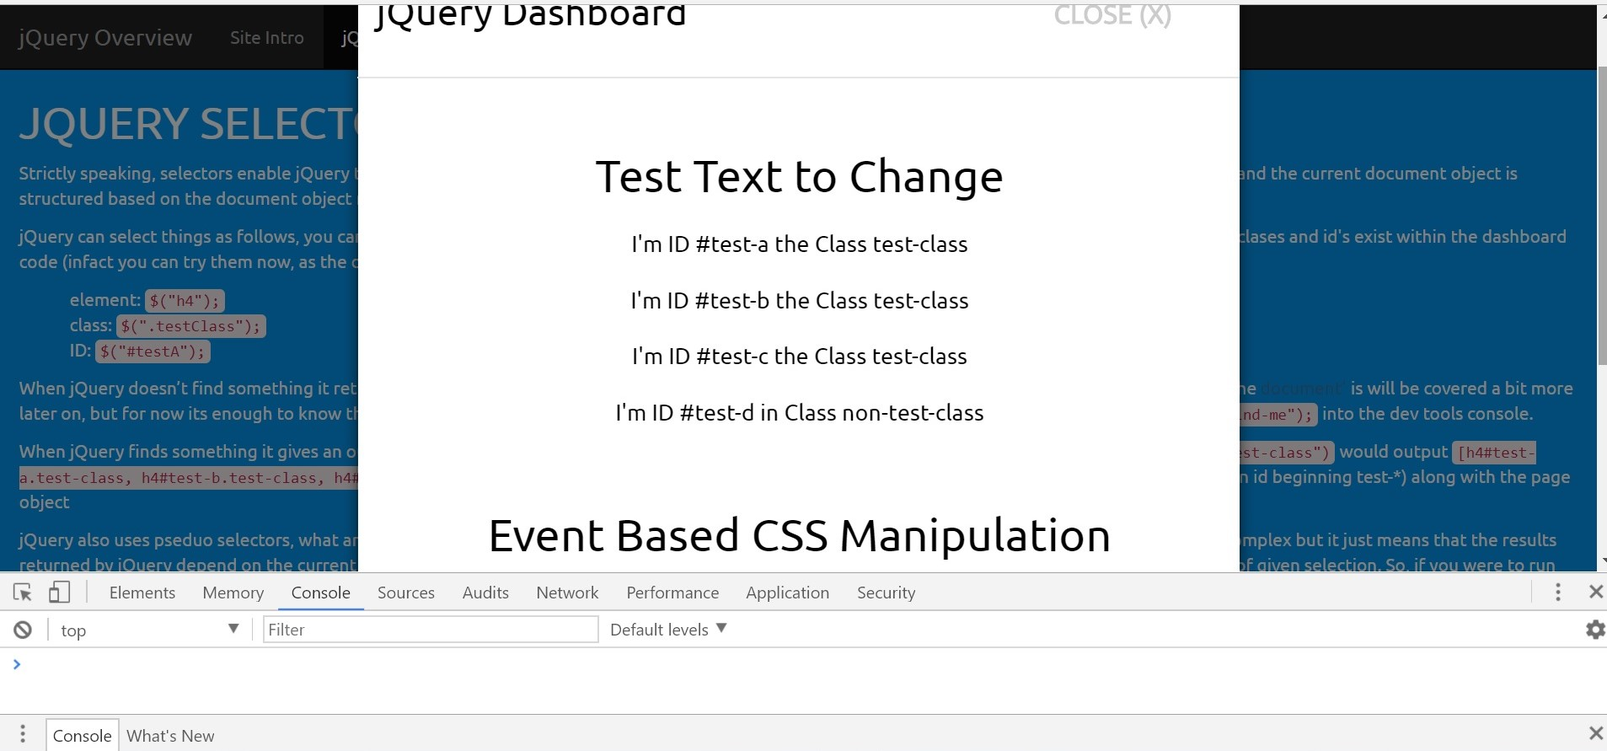
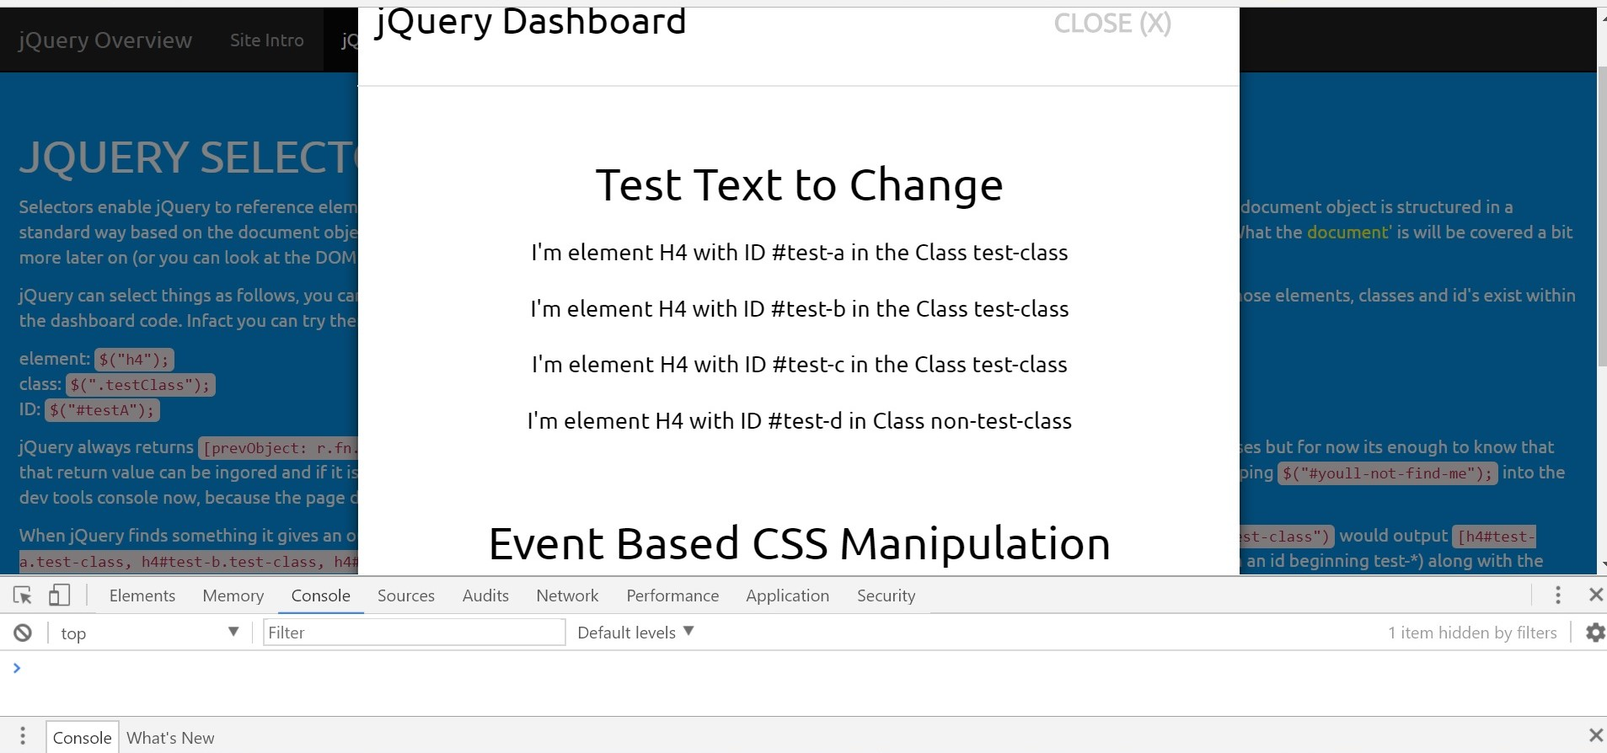
New screenshots, text checked and updated and CSS container heights realigned for responsiveness

diff --git a/index.html b/index.html
@@ -34,10 +34,10 @@
                                 <li><a href="#changing-jQuery">Changing HTML/CSS with jQuery</a></li>
                                 <li><a href="#this-jQuery">jQuery and THIS</a></li>
                             </ul>
-                         </li>
-                         <li><a class="interactive-elements" href="" data-toggle="modal" data-target="#jQuery-modal">jQuery Dashboard</a></li>
-                         <li><a href="#intro-dom">DOM Intro</a></li>
-                         <li><a class="interactive-elements" href="" data-toggle="modal" data-target="#dom-modal">Interactive DOM</a></li>
+                        </li>
+                        <li><a class="interactive-elements" href="" data-toggle="modal" data-target="#jQuery-modal">jQuery Dashboard</a></li>
+                        <li><a href="#intro-dom">DOM Intro</a></li>
+                        <li><a class="interactive-elements" href="" data-toggle="modal" data-target="#dom-modal">Interactive DOM</a></li>
                     </ul>
                 </div>
             </div>
@@ -45,40 +45,39 @@
     </nav>
     <div id="site-intro" class="container-fluid">
         <h1>Site Intro</h1>
-        <p>This is a re-styled version of the content used to give a presentation to some fellow students as part of a learning exercise for myself and for those students who had not understood aspects of jQuery. The purpose was to illustrate and explain the basic functionality of jQuery through a jQuery based dashboard and an interactive DOM diagram I created using jQuery for my own development. This overview assumes a very basic understanding or HTML, CSS and JavaScript - plus an ability to view the page elements and console log through the Dev tools of the browser being used. It is also worth noting that the use of Chrome is assumed, so although alternative browsers will have similar tools the instructions to use them may differ.The interactive aspects of the site are only intended to be used on ipads or larger devices, any smaller devices will just get the text.</p>
-        <p>The dev tools are to my knowledge only available on .</p>
-        Need to mention about DevTools on ipad etc, unusable buttons greyed out on those Also, no modals on small small mobile Devices
+        <p>This is a re-styled version of the content used to give a presentation to some fellow students as part of a learning exercise for myself and for those students who had not understood aspects of jQuery. The purpose was to illustrate and explain the basic functionality of jQuery through a jQuery based dashboard and an interactive DOM diagram I created using jQuery. This overview assumes a very basic understanding or HTML, CSS and JavaScript - plus an ability to view the page elements and console log through the Dev tools of the browser being used. It is worth noting that the use of Chrome is assumed, so although alternative browsers will have similar tools the instructions to use them may differ.The interactive aspects of the site are only intended to be used on ipads or larger devices, any smaller devices will only be able to read the text.</p>
+        <p>The dev tools are to my knowledge only available on laptops and desktops, due to this some of the testing/investigating users can do on tocuscreen devices will be slightly limited.</p>
     </div>
     <div id="intro-jQuery" class="container-fluid">
         <h1>jQUERY Intro</h1>
-        <p>This is a re-styled version of the content used to give a presentation to some fellow students as part of a learning exercise for myself and those students who had not understood aspects of jQuery. The purpose was to illustrate and explain through a jQuery based dashboard, and an interactive DOM diagram I created using jQuery, the basic functionality of jQuery. This overview assumes a very basic understanding or HTML, CSS and JavaScript - plus an ability to view the page elements and console log through the Dev tools of the browser being used. It is also worth noting that the use of Chrome is assumed, so although alternative browsers will have similar tools the instructions to use them may differ. The interactive aspects of the site are only intended to be used on ipads or larger devices, any smaller devices will just get the text.</p>
         <h4>jQuery - What is it, what does it do?</h4>
         <p>jQuery is a library which has wrapped up, shortened and simplified a whole host of JavaScript (JS) operations which would normally require numerous lines of JavaScript code to perform.</p>
         <h4>Why use it?</h4>
-        <p>It has a shorter and easier to learn syntax than JavaScript while retaining a lot of the power of vanilla JS. It is important to appreciate that other JS libraries exist and that jQuery is just currently a very popular one.</p>
+        <p>It has a shorter and easier to learn syntax than JS while retaining a lot of the power of JS, altough it is important to appreciate that other JS libraries exist, jQuery just happens to currently be a very popular one.</p>
         <h4>How do you obtain jQuery?</h4>
-        <p>You need to load the jQuery library when your page loads and this can be achieved by downloading a jQuery library to your local machine or you can use a content delivery network (CDN) which remotely hosts the library and it can be downloaded from there. Whichever method you choose you will need to provide a link to library in your page. A local copy is being used in this instance and you can check the HTML source of this page (via Dev tools) to see the link (its at the bottom of the body section)</p>
-        <p>It is important to be clear on the distinction between the jQuery library and your own jQuery file which will contain your page/site specific jQuery code, as both will need to be included (linked to) within the page.</p>
+        <p>You can download a jQuery library to your local machine or you can use a content delivery network (CDN) which remotely hosts the library and it can be downloaded from there at run time. Whichever method you choose you will need to provide a link to the library in your HML page.</p>
+        <h4>What jQuery is not</h4>
+        <p>It is important to be clear on the distinction between the jQuery library and your own jQuery file which will contain your page/site specific jQuery code. While both will need to be included (linked to) within the page, use will use functions from the jQuery library to help create your own site specific jQuery code.</p>
         <h4>How to implement jQuery in your HTML page</h4>
-        <p>Once you have your link, it is worth knowing that its best practice to put the reference to the jQuery local file or CDN at the end of the body section so that the user interface aspects of the page can download before the jQuery library.</p>
-        <p>When you are using the jQuery library, you need to ensure two things. First, your own jQuery script file is loaded after the jQuery library in the HTML file, otherwise any code in your jQuery file which tries to run before the library has downloaded will fail. Second, the document object model (DOM) has loaded before the script. This is essential if your script interacts with DOM elements, as they may not have loaded by the time the script becomes active. To achieve this you can either put the script link in the head your HTML page and use the document.ready() function at the top of your jQuery script file to encapsulate the scripts within it or put your script file link at the bottom of the body section.</p>
+        <p>Once you have your link to a jQuery library it is worth knowing that its best practice to put the reference to the jQuery local file or CDN at the end of the body section so that the user interface aspects of the page can download before the jQuery library.</p>
+        <p>Additionally, when you are using a jQuery library, you need to ensure two things. First, your own jQuery script file is loaded after the jQuery library in the HTML file, otherwise any code in your jQuery file which tries to run before the library has downloaded will fail. Second, the document object model (DOM) has loaded before the script. This is essential if your script interacts with DOM elements, as they may not have loaded by the time the script becomes active. To achieve this you can either put the script link in the head your HTML page and use the document.ready() function at the top of your jQuery script file to encapsulate the scripts within it, or put your script file link at the bottom of the body section.</p>
     </div>
     <div id="selecting-jQuery" class="container-fluid">
         <h1>JQUERY SELECTORS</h1>
-        <p>Selectors enable jQuery to reference elements within the current browsers document object (an object in this sense is a way of organising data), and the document object is structured in a standard way based on the document object model (DOM). In essence the DOM the browsers view/interpretation of the structure of the HTML page.</p>
-        <p>jQuery can select things as follows, you can try these and others out on the jQuery dashboard section via the dev tools console because those elements, classes and id's exist within the dashboard code (infact you can try them now, as the dashboard code is contained within this pages code!):</p>
+        <p>Selectors enable jQuery to reference elements within the current browsers document object (an object in this sense is a way of organising data), and the document object is structured in a standard way based on the document object model (DOM). In essence the is DOM the browsers view/interpretation of the structure of the HTML page. What the <a href="https://www.w3schools.com/jsref/dom_obj_document.asp">document'</a> is will be covered a bit more later on (or you can look at the DOM intro now).</p>
+        <p>jQuery can select things as follows, you can try these and others out on the jQuery dashboard (a menu option above) via the dev tools console because those elements, classes and id's exist within the dashboard code. Infact you can try them without launching the dashboard becuase the dashboard code is contained within this pages code HTML.</p>
         <ul>
             <li>element: <code> $("h4");</code></li>
             <li>class: <code> $(".testClass"); </code></li>
             <li>ID: <code> $("#testA");</code></li>
         </ul>
-        <p>When jQuery doesn’t find something it returns <code>[prevObject: r.fn.init(1)]</code>, which is an object which contains information about the document. What the <a href="https://www.w3schools.com/jsref/dom_obj_document.asp">document'</a> is will be covered a bit more later on, but for now its enough to know that that return value means jQuery is saying "I can't find it". You can try this out now by typing <code>$("youll-not-find-me");</code> into the dev tools console.</p>
-        <p>When jQuery finds something it gives an output, for example (and again, like all examples given here, it can be tried out on this page via dev tools), <code>$("test-class")</code> would output <code>[h4#test-a.test-class, h4#test-b.test-class, h4#test-c.test-class, prevObject: r.fn.init(1)]</code> which is shows the 4 elements (which are h4 elements with an id beginning test-*) along with the page object</p>
-        <p>jQuery also uses pseduo selectors, what are pseduo selectors? A pseduo selector is a selector who’s return value is context specific. This sounds a little complex but it just means that the results returned by jQuery depend on the current state of the page. For example jQuery has first and last pseduo selectors and these just select the first or last of given selection. So, if you were to run <code>$(".test-class:first()")</code> on the current page, you get <code>h4#test-a.test-class</code> returned (Im that example I have, and will from now on, omit the returned document object), which is the first of the class 'test-class' selection group.</p>
-        <p> This is an experiment to try out, all you need to do is to open dev tools and go to the console, then launch the jQuery Dashboard modal so you can see what you will be searching for and the effects of any changes. Please be aware that you can launch and dismiss (to get back to these instructions) and the modal will relaunch in the state it was before closure. Also before you type anything in, be assured you can't break anything, if anything goes wrong you can simply refresh your page to refresh the modal.Now position the modal so that the "Test Text to Change" and the lines of text below it are visible on your screen at the same time as the elements view, your screen should look something like:</p>
+        <p>jQuery always returns <code>[prevObject: r.fn.init(1)]</code> within its selection results. <code>[prevObject: r.fn.init(1)]</code> is an object jQuery uses for internal purposes but for now its enough to know that that return value can be ingored and if it is the only element jQuery returns, consider it jQuery is just saying "I can't find it". You can try this out now by typing <code>$("#youll-not-find-me");</code> into the dev tools console now, because the page does not have an element id of that name within it.</p>
+        <p>When jQuery finds something it gives an output, for example (and again, like all examples given here, it can be tried out on this page via dev tools), <code>$("test-class")</code> would output <code>[h4#test-a.test-class, h4#test-b.test-class, h4#test-c.test-class, prevObject: r.fn.init(1)]</code> which is showing the 4 elements (which are h4 elements with an id beginning test-*) along with the extra object jQuery puts into the return results</p>
+        <p>jQuery also uses pseduo selectors, what are pseduo selectors? A pseduo selector is a selector who’s return value is context specific. This sounds a little complex but it just means that the results returned by jQuery depend on the current state of the page. For example jQuery has first and last pseduo selectors and these just select the first or last of given selection. So, if you were to run <code>$(".test-class:first()")</code> on the current page, because an element with that id exists in the page HTML, you get <code>h4#test-a.test-class</code> returned (In that example I have, and will from now on, omit the additonal returned jQuery object), which is the first of the class 'test-class' selection group.</p>
+        <p> This is an experiment to try out, all you need to do is to open dev tools and go to the console, then launch the jQuery Dashboard modal so you can see what you will be searching for and the effects of any changes. Please be aware that you can launch and dismiss (to get back to these instructions) and the modal will relaunch in the state it was before closure. Also before you type anything in, be assured you can't break anything, if anything goes wrong you can simply refresh your page to refresh the modal.Once you have launched the modal position it so that the "Test Text to Change" and the lines of text below it are visible on your screen at the same time as the elements view, your screen should look something like:</p>
         <figure class="row text-center">
             <img class="screen-setup-img" src="img/console.jpg" alt="image of required screen layout">
-            <figcaption>Fig1. - Screen layout for Dev Tools Console and jQuery Dashboard</figcaption>
+            <figcaption>Fig.1 - Screen layout for Dev Tools Console and jQuery Dashboard</figcaption>
         </figure>
         <p>Now run the commands in the following order: </p>
         <ul>
@@ -92,12 +91,12 @@
     </div>
     <div id="changing-jQuery" class="container-fluid">
         <h1>Changing HTML/CSS with jQuery</h1>
-        <p>As shown in the previous section, jQuery can be used to change as well as select HTML/CSS, lets check this out, launch the jQuery dashboard and set up the layout as guided in the previous section, with the only difference being you need to have elements selected in dev tools rather than console. The console may already be showing at the bottom of the elements pane (although you may need to expand it up), if not press escape and it will appear and adjust it as necessary. In this instance we want to see the changes to the HTML, so we need to get the HTML which will change into view. So in the elements pane drill down into the HTML, by selecting these elements and expanding them, in this order: </p>
+        <p>As shown in the previous section, jQuery can be used to change as well as select HTML/CSS, lets check this out. Launch the jQuery dashboard and set up the layout as guided in the previous section, with the only difference being you need to have elements selected in dev tools rather than console. The console may already be showing at the bottom of the elements pane (although you may need to expand it up), if not press escape and it will appear and adjust it as necessary. In this instance we want to see the changes to the HTML, so we need to get the HTML which will change into view. So in the elements pane drill down into the applicable HTML by selecting the following elements and expanding them, in this order: </p>
         <p><code>body, div id=jQuery-modal, div class="modal-dialog", div="modal-content", div="modal-body", div="display-dashboard-container", div id="display-dashboard"</code></p>
-        <p>Then adjust your page so the h4 elements with an id of test-* are in view, ideally you page layout will look something like:</p>
+        <p>Then launch the jQuery Dashboard and adjust your page so the h4 elements with an id of test-* are in view, ideally you page layout will look something like:</p>
         <figure class="row text-center">
             <img class="screen-setup-img" src="img/elements-console.jpg" alt="image of required screen layout">
-            <figcaption>Fig1. - Screen layout for Dev Tools Console, Elements pane and jQuery Dashboard</figcaption>
+            <figcaption>Fig.2 - Screen layout for Dev Tools Console, Elements pane and jQuery Dashboard</figcaption>
         </figure>
         <p>Now run the following commands:
             <p>
@@ -111,7 +110,7 @@
     <div id="events-jQuery" class="container-fluid">
         <h1>Changing HTML/CSS with jQuery Events</h1>
         <h4>EVENTS IN JQUERY</h4>
-        <P>In essence events are user based actions, it could be a mouse click, a key being pressed or released, or something being hovered over by the cursor. There are a variety of different events and list of them can be found <a href="https://www.w3schools.com/js/js_events.asp">online</a>. When set up, event handlers listen out for these events and will trigger off some code when required, and this will normally result in something observable happening on the screen.</P>
+        <P>In essence events are user based actions, it could be a mouse click, a key being pressed or released, or something being hovered over by the cursor. There are a variety of different events and lists of them can be found <a href="https://www.w3schools.com/js/js_events.asp">online</a>. When set up, event handlers listen out for these events and will trigger off some code when required and this will normally result in something observable happening on the screen.</P>
         <p>This overview will use the click event and the mouseover event. From this point on you will only need the elements section of Google Dev Tools, so you can close the console section of the elements window if it is taking up space. To observe the changes you will need to drill down to the HTML div with an ID of display-dashboard, via the rote shown in the previous section.</p>
         <p>Launch the jQuery Dashboard and press the red and then the blue button under 'add class', you will see in the elements panel that both a red and a blue class are added to elements of the class, test-class. But you will also notice, that subsequent presses have no effect and the text stays blue, this is because the element has two colour classes applied and so normal CSS precedence will apply and in this case blue is the final colour/rule in the cascade, so it is the one which is applied. This issue can be avoided by adding one class while removing the other, using the 'class add/remove' buttons on the dashboard illustrate this, and looking at the HTML changes clearly shows this is happening. If you look in the jQuery file for this overview (js/myExample.js) you will it shown how 'event chaining' can be used to execute commands in a back to back sequence. The button click associated with the id addRemClass is written in a line by line way: </p>
         <ul>
@@ -124,7 +123,7 @@
             </li>
             <li><code>});</code></li>
         </ul>
-        <p>The code for addRemClassBlue is written using method chaining, which enables a shorter syntax and is commonly used in jQuery:</p>
+        <p>The code for addRemClassBlue is written using method chaining which enables a shorter syntax and is commonly used in jQuery, it is simply saying add class blue then remove class red:</p>
         <ul>
             <li><code>$("#addRemClassBlue").click(function(){</code></li>
             <li>
@@ -134,13 +133,13 @@
             </li>
             <li><code>});</code><li>
         </ul>
-                <h4>Changing HTML/CSS with jQuery Effects</h4>
-                <p>jQuery effects are a simple was of combining different CSS animation effects via one command, there are various, but this overview will only be using fade in/out and slide in/out via event handlers. To watch how the effects work, go to the dashboard in the elements section and drill down to the dashboard HTML (how to do this is explained in preceding sections). Then press the top slide toggle button and watch the HTML change, press it again to see the effect in reverse and then try the fade toggle button.</p>
-                <p> From watching the HML you will have seen something happening very quickly! If you now use the slow version of the toggle buttons the CSS manipulation can be seen more clearly. Slide out hides the overflow of the container, then reduces the containers height until it eventually the CSS display property is changed to “None” (slide in simply reverses this). Fade out reduces the opacity of the contents of the container until it can hardly be seen and changes the CSS display property to “None” (fade in reverses this). </p>
+        <h4>Changing HTML/CSS with jQuery Effects</h4>
+        <p>jQuery effects are a simple was of combining different CSS animation effects via one command, there are various, but this overview will only be using fade in/out and slide in/out via mouseover and click event handlers. To watch how the effects work, go to the dashboard in the elements section and drill down to the dashboard HTML (how to do this is explained in preceding sections). Then press the top slide toggle button and watch the HTML change, press it again to see the effect in reverse and then try the fade toggle button.</p>
+        <p> From watching the HML you will have seen something happening very quickly! If you now use the slow version of the toggle buttons the CSS manipulation can be seen more clearly. Slide out hides the overflow of the container, then reduces the containers height until it eventually the CSS display property is changed to “None” (slide in simply reverses this). Fade out reduces the opacity of the contents of the container until it can hardly be seen and changes the CSS display property to “None” (fade in reverses this). </p>
     </div>
     <div id="this-jQuery" class="container-fluid">
         <h1>jQuery and 'THIS'</h1>
-        <p>Sometimes you only want to select or target the active screen element, for instance the element being clicked or hovered over. To do this you need to use the keyword THIS in the event handler to specify the event handler code is to only apply to the active element, and by active element it is meant "the one through which action is invoked". If you bring up the dashboard and hover over the 3 grouped buttons, you will notice that they change to be black with red writing, this is because a group event for that button class has been set up, so if any of the buttons are hovered over, they all change, with the code shown below.</p>
+        <p>Sometimes you only want to select or target the active screen element, for instance the element being clicked or hovered over. To do this you need to use the keyword THIS in the event handler to specify the event handler code is to only apply to the active element, and by active element it is meant "the one through which action is invoked". If you bring up the dashboard and hover over one of the 4 buttons in the 'This' Button Group (touchscreen users will have to click one of the buttons), you will notice that they change to be black with red writing, this is because a group event for that button class has been set up, so if any of the buttons are hovered over, they all change, with the code shown below.</p>
         <ul>
             <li><code>  $(".buttonClass").mouseover(function(){</code></li>
             <li>
@@ -163,7 +162,7 @@
             </li>
             <li><code>});</code></li>
         </ul>
-        <p> This isn't the specific change to the active element that was mentioned above, but if you now click on one of those buttons, you will see that each one independently cycles through odd/even, again you can see this change in the HTML.</p>
+        <p> But this isn't the specific change to the active element that was mentioned above, so if you now click on one of those buttons, if you haven't already noticed you will see that each one independently cycles through odd/even, again you can see this change in the HTML.</p>
         <ul>
             <li><code>$(".buttonClass").click(function() {</code></li>
             <li>
@@ -191,10 +190,10 @@
                         <div class="display-dashboard-container">
                             <h1>Test Text to Change</h1>
                             <div id="display-dashboard">
-                                <h4 id="test-a" class="test-class"> I'm ID #test-a the Class test-class</h4>
-                                <h4 id="test-b" class="test-class"> I'm ID #test-b the Class test-class</h4>
-                                <h4 id="test-c" class="test-class"> I'm ID #test-c the Class test-class</h4>
-                                <h4 id="test-d" class="non-test-class"> I'm ID #test-d in Class non-test-class</h4>
+                                <h4 id="test-a" class="test-class"> I'm element H4 with ID #test-a in the Class test-class</h4>
+                                <h4 id="test-b" class="test-class"> I'm element H4 with ID #test-b in the Class test-class</h4>
+                                <h4 id="test-c" class="test-class"> I'm element H4 with ID #test-c in the Class test-class</h4>
+                                <h4 id="test-d" class="non-test-class"> I'm element H4 with ID #test-d in Class non-test-class</h4>
                             </div>
                         </div>
                         <div class="events-dashboard-container">
@@ -216,7 +215,7 @@
                                 <button id="fadeToggleButtonSS" class="small-button">Fade</button>
                             </div>
                             <div class="event-panel">
-                                <p>Buttons with a class (on hover) and active element (on click) changes:</p>
+                                <p>'This' Button Group:</p>
                                 <button class="buttonClass small-button">Button 1</button>
                                 <button class="buttonClass small-button">Button 2</button>
                                 <button class="buttonClass small-button">Button 3</button>
@@ -231,20 +230,22 @@
     <div id="intro-dom" class="container-fluid">
         <h1>Introduction to the DOM</h1>
         <p>The Document Object Model (DOM) is a hierarchical view of the page from the perspective of the browser. Each element of the DOM is an object which will have properties (values which are changeable) and methods (perform actions to change or obtain properties).</p>
-        <p>At the top is the window object which represents the browser window, under that is the document object which represents the current web page/document, HTML object represents all the HTML elements within the document. Following HTML are the HEAD and BODY, then the elements the user has put to build their webpage as they wish. Its worth being aware that when working with the DOM you will normally only target elements in the BODY section. Within the BODY tag the hierarchy is set by how the different elements of code enclose each other. If you indent your code correctly you'll be able to the different enclosures (or DOM levels) from the indentation. For example, below you can see the two enclosure levels, as the the level_2 elements are enclosed by the level_1 elements they are a level down in the down the DOM hierarchy relative to the level_1 elements.</p>
+        <p>At the top is the window object which represents the browser window, under that is the document object which represents the current web page/document, then there is the HTML object represents all the HTML elements within the document. Following HTML are the HEAD and BODY, then the elements the user has put to build their webpage as they wish. Its worth being aware that when working with the DOM you will normally only target elements in the BODY section. Within the BODY tag the hierarchy is set by how the different elements of code enclose each other. If you indent your code correctly you'll be able to the different enclosures (or DOM levels) from the indentation. For example, below you can see the two enclosure levels, as the the level_2 elements are enclosed by the level_1 elements they are a level down in the down the DOM hierarchy relative to the level_1 elements.</p>
         <ul>
             <li><code>&lt;div class="level_1"&gt;</code></li>
             <li>
                 <ul>
-                    <li><code>&lt;div class="level_2"&gt;</code></li>
+                    <li><code>&lt;div class="level_2"div&gt;&lt;\div&gt;</code></li>
                 </ul>
             </li>
+            <li><code>&lt;\div&gt;</code></li>
             <li><code>&lt;div class="level_1"&gt;</code></li>
             <li>
                 <ul>
-                    <li><code>&lt;div class="level_2"&gt;</code></li>
+                    <li><code>&lt;div class="level_2"div&gt;&lt;\div&gt;</code></li>
                 </ul>
             <li>
+            <li><code>&lt;\div&gt;</code></li>
         </ul>
         <p>The DOMs different elements have a family based relationship, in that they each have a parent and can have children or siblings and this can clearly been seen on the interactive DOM hierarchy (invoke via main menu). With jQuery you don’t have to directly reference an element via class or ID to select it, you can traverse the DOM up/down/left and right using:</p>
         <ul>
@@ -253,10 +254,8 @@
             <li><code>.next()</code> - goes left to right on siblings</li>
             <li><code>.previous()</code> - goes right to left on siblings</li>
         </ul>
-        <p>What is a viewed as a parent, child or sibling is context specific depending on the element selected, and this maybe difficult to conceptualise which is why the interactive DOM Hierarchy can be useful.</p>
+        <p>What is a viewed as a parent, child or sibling is context specific depending on the element selected, and this maybe difficult to conceptualise which is where the interactive DOM Hierarchy can be useful to clearly show these relationships.</p>
     </div>
-    
-
     <!-- DOM Modal -->
     <div id="dom-modal" class="modal fade" role="dialog">
         <div class="modal-dialog">
@@ -267,7 +266,7 @@
                     <h2 class="modal-title .text-center">Introduction to the DOM</h2>
                 </div>
                 <div class="modal-body">
-                    <p> What is a viewed as a parent, child or sibling when navigating the DOM is context specific depending on the element selected.To illustrate this an interactive diagram of a fictitious webpage has been created using jQuery! Click on any element (with the exception of Window, as it has no parent) and the diagram will show the active elements, parent, sibling and direct children.
+                    <p> What is a viewed as a parent, child or sibling when navigating the DOM is context specific depending on the element selected.To illustrate this an interactive diagram of a fictitious webpage has been created using jQuery. Click on any element (with the exception of Window, as it has no parent) and the diagram will show the active elements, parent, sibling and direct children.
                     </p>
                     <div class="dom-dashboard hideDOMNav">
                         <div class="dom-container">

diff --git a/css/myCSS.css b/css/myCSS.css
@@ -367,7 +367,7 @@
 
     #intro-jQuery {
         padding-top: 50px;
-        height: 1800px;
+        height: 1400px;
         color: #fff;
         background: #3061b2 url('../img/jQuery_icon2.png') no-repeat center center fixed;
     }
@@ -375,7 +375,7 @@
 
     #selecting-jQuery {
         padding-top: 50px;
-        height: 2200px;
+        height: 2400px;
         color: #fff;
         background: #0494ed url('../img/jQuery_icon2.png') no-repeat center center fixed;
     }
@@ -406,7 +406,7 @@
 
     #intro-dom {
         padding-top: 50px;
-        height: 1250px;
+        height: 1300px;
         color: #fff;
         background: #0494ed url('../img/jQuery_icon2.png') no-repeat center center fixed;
     }
@@ -436,7 +436,7 @@
 
     #intro-jQuery {
         padding-top: 50px;
-        height: 1200px;
+        height: 1050px;
         color: #fff;
         background: #3061b2 url('../img/jQuery_icon2.png') no-repeat center center fixed;
     }
@@ -444,7 +444,7 @@
 
     #selecting-jQuery {
         padding-top: 50px;
-        height: 1450px;
+        height: 1500px;
         color: #fff;
         background: #0494ed url('../img/jQuery_icon2.png') no-repeat center center fixed;
     }
@@ -497,7 +497,7 @@
 
     #intro-jQuery {
         padding-top: 50px;
-        height: 1100px;
+        height: 900px;
         color: #fff;
         background: #3061b2 url('../img/jQuery_icon2.png') no-repeat center center fixed;
     }
@@ -505,7 +505,7 @@
 
     #selecting-jQuery {
         padding-top: 50px;
-        height: 1200px;
+        height: 1250px;
         color: #fff;
         background: #0494ed url('../img/jQuery_icon2.png') no-repeat center center fixed;
     }
@@ -554,7 +554,7 @@
 
     #intro-jQuery {
         padding-top: 50px;
-        height: 950px;
+        height: 850px;
         color: #fff;
         background: #3061b2 url('../img/jQuery_icon2.png') no-repeat center center fixed;
     }
@@ -562,7 +562,7 @@
 
     #selecting-jQuery {
         padding-top: 50px;
-        height: 1400px;
+        height: 1450px;
         color: #fff;
         background: #0494ed url('../img/jQuery_icon2.png') no-repeat center center fixed;
     }
@@ -617,7 +617,7 @@
 
     #intro-jQuery {
         padding-top: 50px;
-        height: 900px;
+        height: 800px;
         color: #fff;
         background: #3061b2 url('../img/jQuery_icon2.png') no-repeat center center fixed;
     }
@@ -625,7 +625,7 @@
 
     #selecting-jQuery {
         padding-top: 50px;
-        height: 1350px;
+        height: 1400px;
         color: #fff;
         background: #0494ed url('../img/jQuery_icon2.png') no-repeat center center fixed;
     }
@@ -640,7 +640,7 @@
 
     #events-jQuery {
         padding-top: 50px;
-        height: 950px;
+        height: 1000px;
         color: #fff;
         background: #0494ed url('../img/jQuery_icon2.png') no-repeat center center fixed;
     }
@@ -680,7 +680,7 @@
 
     #intro-jQuery {
         padding-top: 50px;
-        height: 850px;
+        height: 800px;
         color: #fff;
         background: #3061b2 url('../img/jQuery_icon2.png') no-repeat center center fixed;
     }
@@ -688,7 +688,7 @@
 
     #selecting-jQuery {
         padding-top: 50px;
-        height: 1250px;
+        height: 1300px;
         color: #fff;
         background: #0494ed url('../img/jQuery_icon2.png') no-repeat center center fixed;
     }
